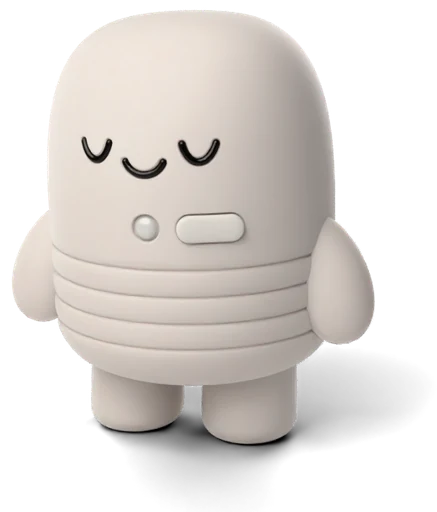
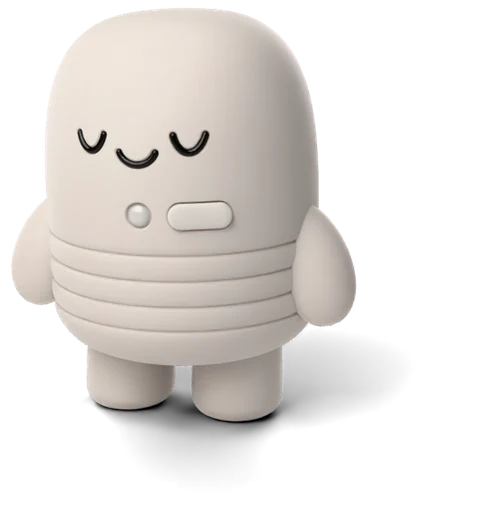
Homepage character walks in; calmer idle; softer shadows
New renders: the calmer idle, and the walk-in on twos with per-frame
offsets (played on the first homepage visit per session, then a wave).
The idle no longer repeats its first frame at the end. Shadows feather
out toward each frame's edges and soften while he's far from his spot;
the walk-in fades up over its first steps. 2.6 MB in all.

Claude-Session: https://claude.ai/code/session_01GHKVLWS1xygcGqqrBLencu

Changed region(s): [[0.0297, 0.0, 0.8924, 0.9375], [0.0, 0.0, 0.4165, 0.5312], [0.1487, 0.6562, 0.1785, 0.6875]]

diff --git a/design/avatar/sheets.py b/design/avatar/sheets.py
@@ -42,13 +42,21 @@ bw, bh = box[2] - box[0], box[3] - box[1]
 H = SIZE; W = round(bw * H / bh)
 
 
-def frame(p):
+def frame(p, shadow=1.0):
     im = np.asarray(Image.open(p).convert('RGBA')).astype(float)
     # The floor is a shadow catcher: it leaves a faint grey wash (alpha ~10-35) everywhere, whose edge
     # would show as a rectangle. Keep only the real contact shadow under him.
     floor = (im[:, :, :3].max(2) < 10) & (im[:, :, 3] < 250)
     im[:, :, 3] = np.where(floor, np.clip((im[:, :, 3] - 34) * 1.35, 0, 255), im[:, :, 3])
-    return Image.fromarray(im.astype(np.uint8)).crop(box).resize((W, H), Image.LANCZOS)
+    out = np.asarray(Image.fromarray(im.astype(np.uint8)).crop(box).resize((W, H), Image.LANCZOS)).astype(float)
+    # Feather the shadow toward the frame's edges, so a long shadow never ends in a hard line.
+    h, w = out.shape[:2]
+    ex = np.clip(np.minimum(np.arange(w), w - 1 - np.arange(w)) / (0.12 * w), 0, 1)
+    ey = np.clip((h - 1 - np.arange(h)) / (0.06 * h), 0, 1)
+    ramp = np.minimum(ey[:, None], ex[None, :])
+    shade = (out[:, :, :3].max(2) < 12) & (out[:, :, 3] < 250)
+    out[:, :, 3] = np.where(shade, out[:, :, 3] * ramp * shadow, out[:, :, 3])
+    return Image.fromarray(out.astype(np.uint8))
 
 
 meta = {'ratio': round(W / H, 4)}
@@ -56,8 +64,12 @@ for name, (files, fps) in moves.items():
     cols = max(1, 8192 // W)
     rows = -(-len(files) // cols)
     sheet = Image.new('RGBA', (cols * W, rows * H))
+    far = max([abs(OFFS[str(int(q.stem[1:]))][0]) for q in files] or [1]) if name == 'walkin' else 1
     for i, p in enumerate(files):
-        sheet.paste(frame(p), ((i % cols) * W, (i // cols) * H))
+        # Far from his spot the studio light is low on him and his shadow stretches; soften it
+        # while he's out there, easing to the normal shadow as he arrives.
+        k = 1.0 if name != 'walkin' else 1 - 0.65 * abs(OFFS[str(int(p.stem[1:]))][0]) / far
+        sheet.paste(frame(p, k), ((i % cols) * W, (i // cols) * H))
     sheet.save(out / f'{name}.webp', 'WEBP', quality=72, method=6)
     meta[name] = {'sheet': f'{name}.webp', 'w': W, 'h': H, 'cols': cols, 'frames': len(files), 'fps': fps}
     if name == 'walkin':
